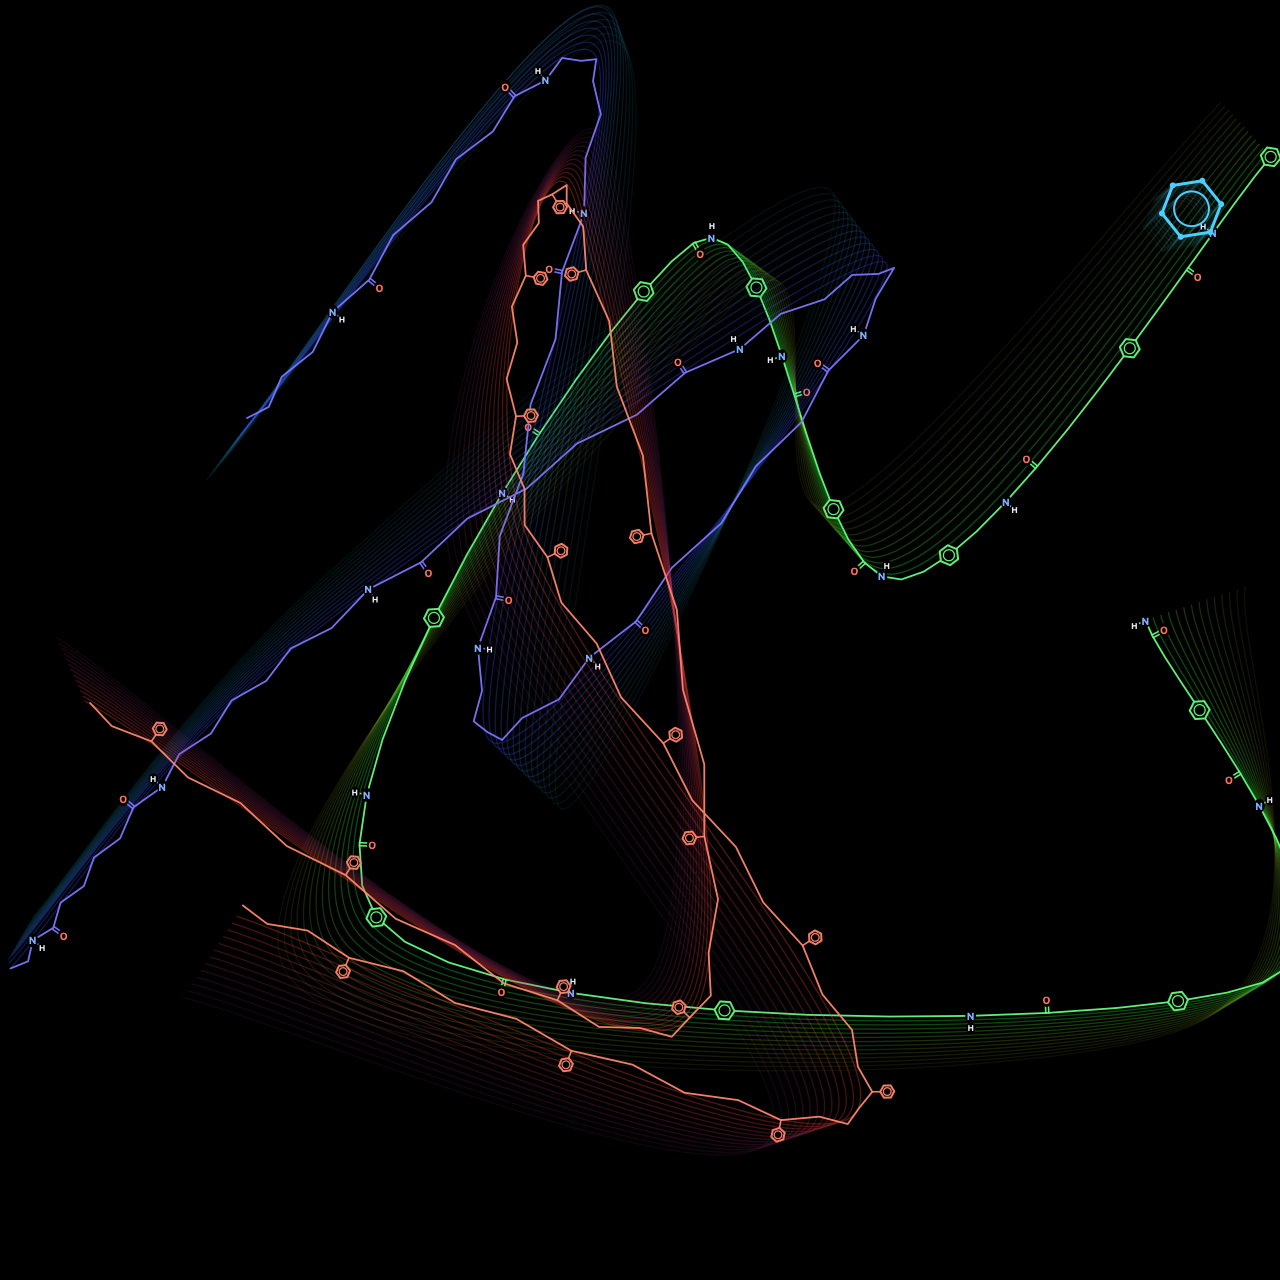
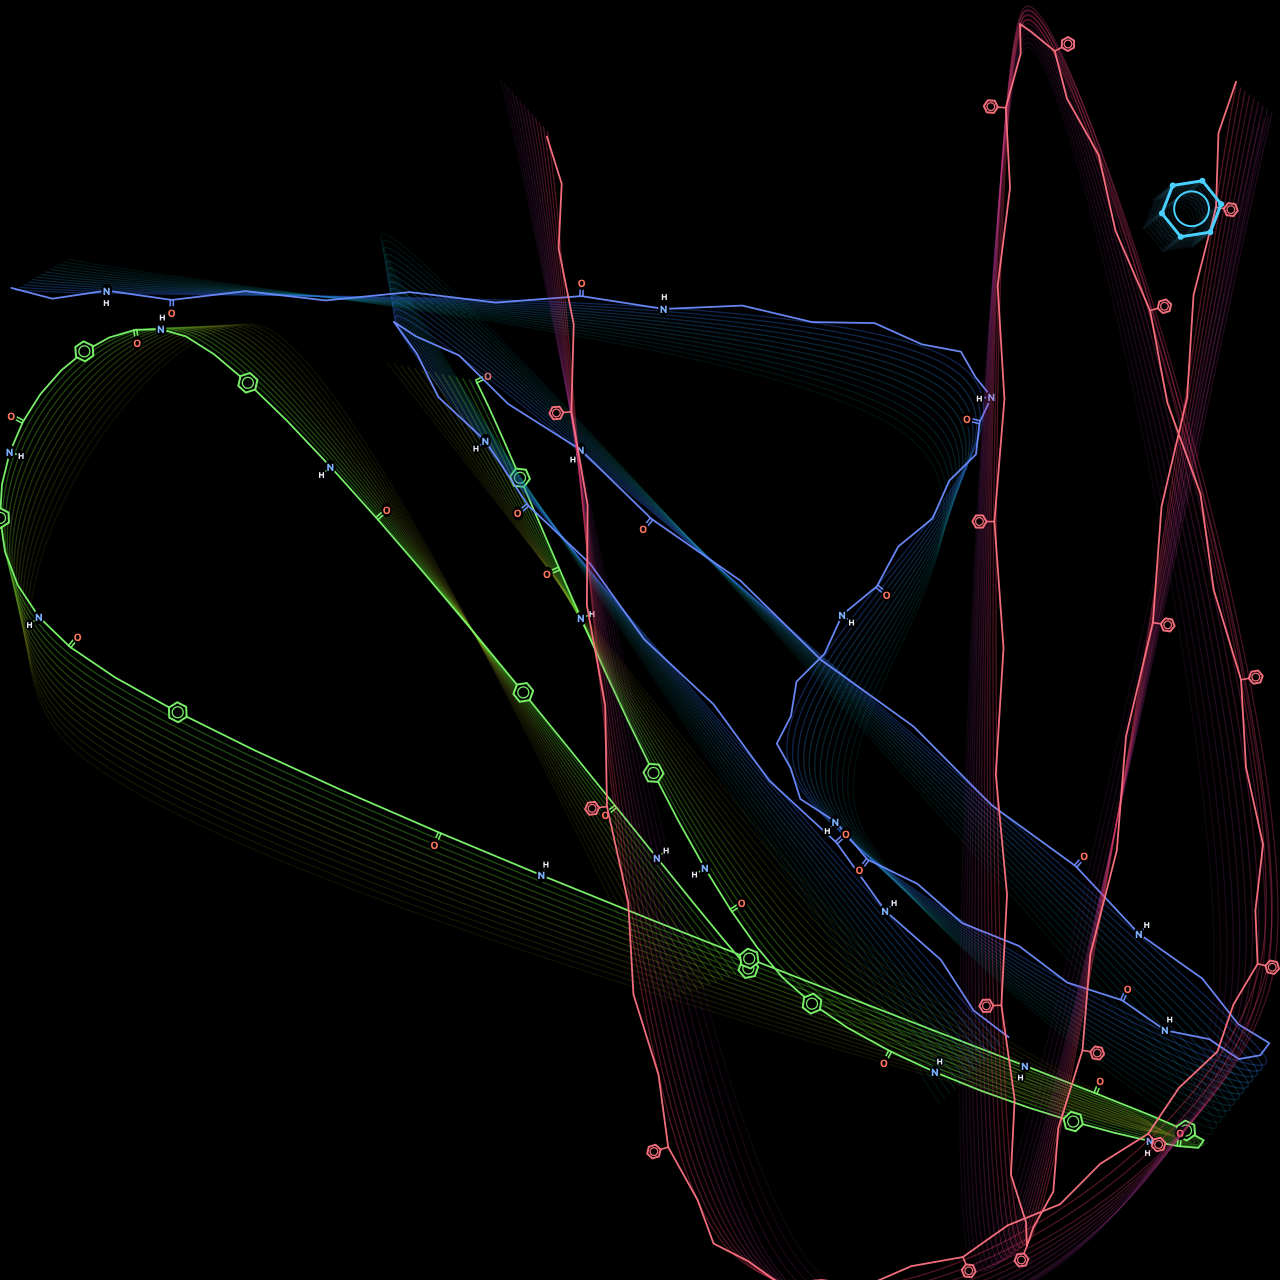
Alembics: pipes occasionally retire into an onion-domed still head
Dead-end and 3% of ongoing runs end in an alembic with pooled distillate,
a down-angled spout, and a drip. The alchemists were here first.

Changed region(s): [[0.0, 0.0, 1.0, 1.0], [0.75, 0.0, 0.8438, 0.1875], [0.5938, 0.4688, 0.625, 0.5]]

diff --git a/GlasswarePipes/GlasswarePipes.swift b/GlasswarePipes/GlasswarePipes.swift
@@ -184,10 +184,21 @@ public final class GlasswarePipesView: ScreenSaverView {
         addTube(from: world(from), to: world(to), color: p.color)
         p.head = to
         guard let nd = chooseDir(from: to, current: p.dir) else {
-            // Stuck: cap it with a ball joint and retire the pipe.
-            addBall(at: world(to), color: p.color, r: 0.30, clamped: false)
+            // Stuck: retire the pipe — half the time it ends in an alembic
+            // (the alchemists were here first), otherwise a ball-joint cap.
+            if rnd(0...1) < 0.5 {
+                addAlembic(at: world(to), color: p.color)
+            } else {
+                addBall(at: world(to), color: p.color, r: 0.30, clamped: false)
+            }
             p.alive = false
             deadStarts += 1
+            return
+        }
+        if rnd(0...1) < 0.03 {
+            // Deliberate retirement: the run ends in an alembic.
+            addAlembic(at: world(to), color: p.color)
+            p.alive = false
             return
         }
         if nd != p.dir {
@@ -232,6 +243,13 @@ public final class GlasswarePipesView: ScreenSaverView {
         let (pt, z) = camera.project(p)
         items.append(DrawItem(kind: clamped ? 4 : 1, depth: z - 0.01, p1: pt,
                               w: r * 2 * camera.fl / max(z, 0.6), color: color))
+        needSort = true
+    }
+
+    private func addAlembic(at p: V3, color: Int) {
+        let (pt, z) = camera.project(p)
+        items.append(DrawItem(kind: 5, depth: z - 0.02, p1: pt,
+                              w: 0.5 * camera.fl / max(z, 0.6), color: color))
         needSort = true
     }
 
@@ -352,9 +370,68 @@ public final class GlasswarePipesView: ScreenSaverView {
             }
             drawCapsule(ctx, item.p1, item.p2, w: item.w * 0.55,
                         color: item.color, depth: item.depth)
+        case 5:
+            drawAlembic(ctx, at: item.p1, s: item.w, color: item.color, depth: item.depth)
         default:
             break
         }
+    }
+
+    /// An alembic still-head: onion-domed bulb with a long spout angling down,
+    /// mid-distillation.
+    private func drawAlembic(_ ctx: CGContext, at p: CGPoint, s: Double,
+                             color: Int, depth: Double) {
+        let body = CGMutablePath()
+        body.addEllipse(in: CGRect(x: p.x - s, y: p.y - s, width: 2 * s, height: 2 * s))
+        // Onion dome rising to a point
+        body.move(to: CGPoint(x: p.x - s * 0.72, y: p.y + s * 0.64))
+        body.addQuadCurve(to: CGPoint(x: p.x, y: p.y + s * 1.95),
+                          control: CGPoint(x: p.x - s * 0.6, y: p.y + s * 1.5))
+        body.addQuadCurve(to: CGPoint(x: p.x + s * 0.72, y: p.y + s * 0.64),
+                          control: CGPoint(x: p.x + s * 0.6, y: p.y + s * 1.5))
+        body.closeSubpath()
+
+        ctx.addPath(body)
+        ctx.setFillColor(shade(color, 0.75, alpha: 0.96, depth: depth))
+        ctx.fillPath()
+        // Distillate pooling in the bulb
+        ctx.saveGState()
+        ctx.addEllipse(in: CGRect(x: p.x - s, y: p.y - s, width: 2 * s, height: 2 * s))
+        ctx.clip()
+        ctx.setFillColor(shade((color + 2) % tints.count, 1.0, alpha: 0.95, depth: depth))
+        ctx.fill(CGRect(x: p.x - s, y: p.y - s, width: 2 * s, height: s * 0.85))
+        ctx.restoreGState()
+        // Outline
+        ctx.addPath(body)
+        ctx.setStrokeColor(shade(color, 0.4, alpha: 1, depth: depth))
+        ctx.setLineWidth(max(s * 0.12, 1.2))
+        ctx.strokePath()
+        // Spout: off the dome shoulder, angling down like it means business
+        let sw = max(s * 0.3, 1.5)
+        let spoutStart = CGPoint(x: p.x + s * 0.62, y: p.y + s * 0.85)
+        let spoutMid = CGPoint(x: p.x + s * 1.6, y: p.y + s * 0.25)
+        let spoutEnd = CGPoint(x: p.x + s * 2.25, y: p.y - s * 0.75)
+        ctx.setLineCap(.round)
+        ctx.setStrokeColor(shade(color, 0.45, alpha: 1, depth: depth))
+        ctx.setLineWidth(sw)
+        ctx.move(to: spoutStart); ctx.addLine(to: spoutMid); ctx.strokePath()
+        ctx.setLineWidth(sw * 0.65)
+        ctx.move(to: spoutMid); ctx.addLine(to: spoutEnd); ctx.strokePath()
+        ctx.setStrokeColor(shade(color, 0.9, alpha: 1, depth: depth))
+        ctx.setLineWidth(sw * 0.45)
+        ctx.move(to: spoutStart); ctx.addLine(to: spoutMid)
+        ctx.addLine(to: spoutEnd); ctx.strokePath()
+        // The drip
+        let dr = s * 0.14
+        ctx.setFillColor(shade((color + 2) % tints.count, 1.1, alpha: 1, depth: depth))
+        ctx.fillEllipse(in: CGRect(x: spoutEnd.x - dr, y: spoutEnd.y - s * 0.45 - dr,
+                                   width: 2 * dr, height: 2.6 * dr))
+        // Glass glint on the bulb
+        ctx.setStrokeColor(CGColor(red: 1, green: 1, blue: 1, alpha: 0.55))
+        ctx.setLineWidth(max(s * 0.09, 1))
+        ctx.addArc(center: p, radius: s * 0.72,
+                   startAngle: 2.2, endAngle: 3.0, clockwise: false)
+        ctx.strokePath()
     }
 
     /// Colored plastic Keck clip straddling a ground-glass joint: a spine
